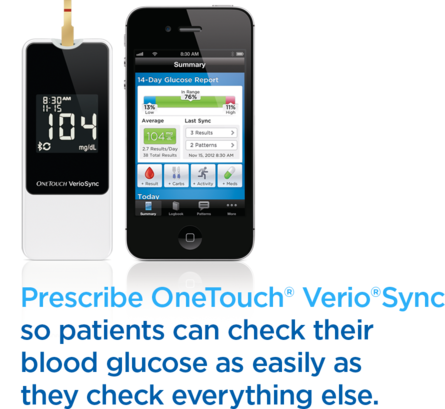
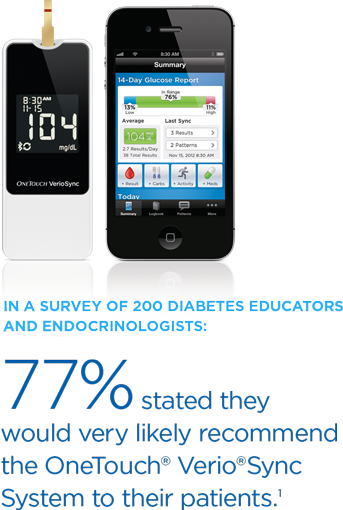
changed stats chip and four people image for close page

diff --git a/salesaid/verioplatform_veriosync/res/css/4.0.css b/salesaid/verioplatform_veriosync/res/css/4.0.css
@@ -13,6 +13,6 @@
 
 .prescribeonetouch {
     position: relative;
-    left: 52px;
-    top: 170px;
+    left: 92px;
+    top: 130px;
 }
